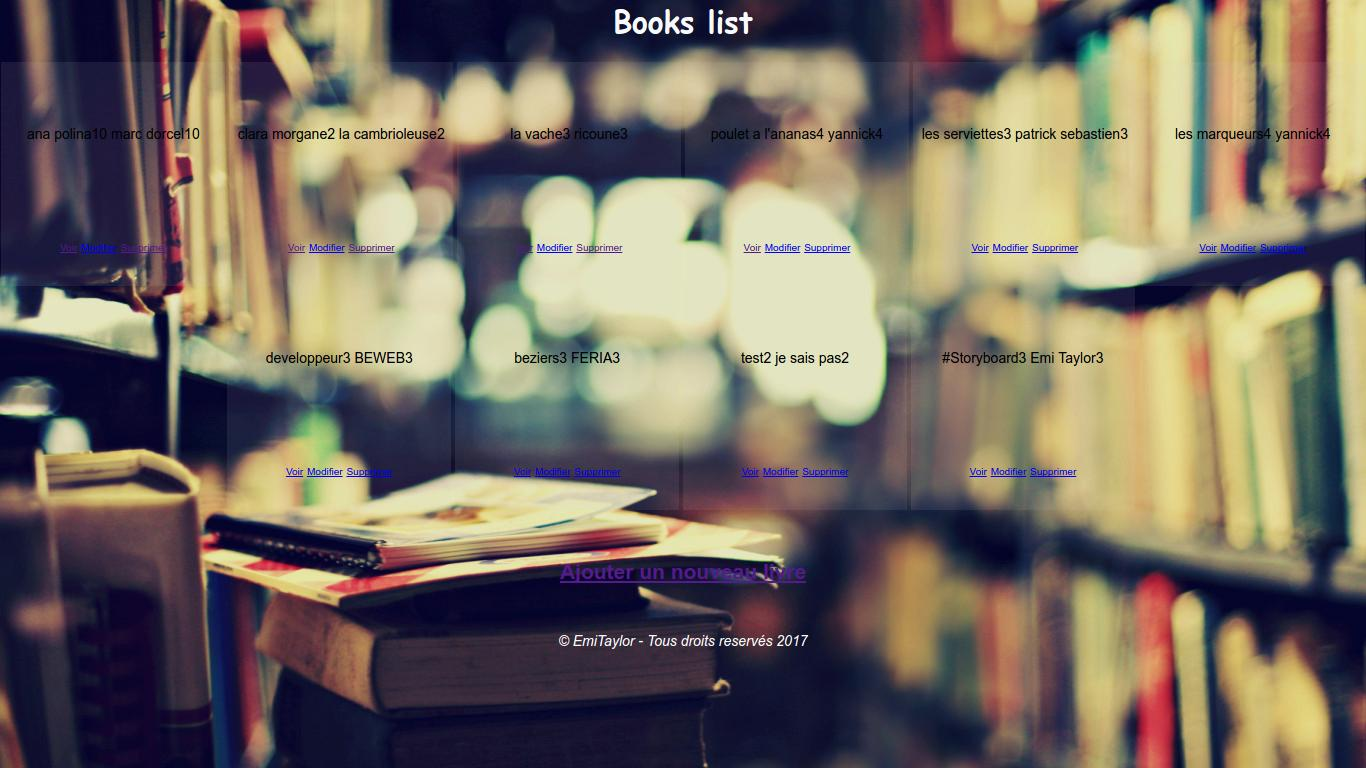
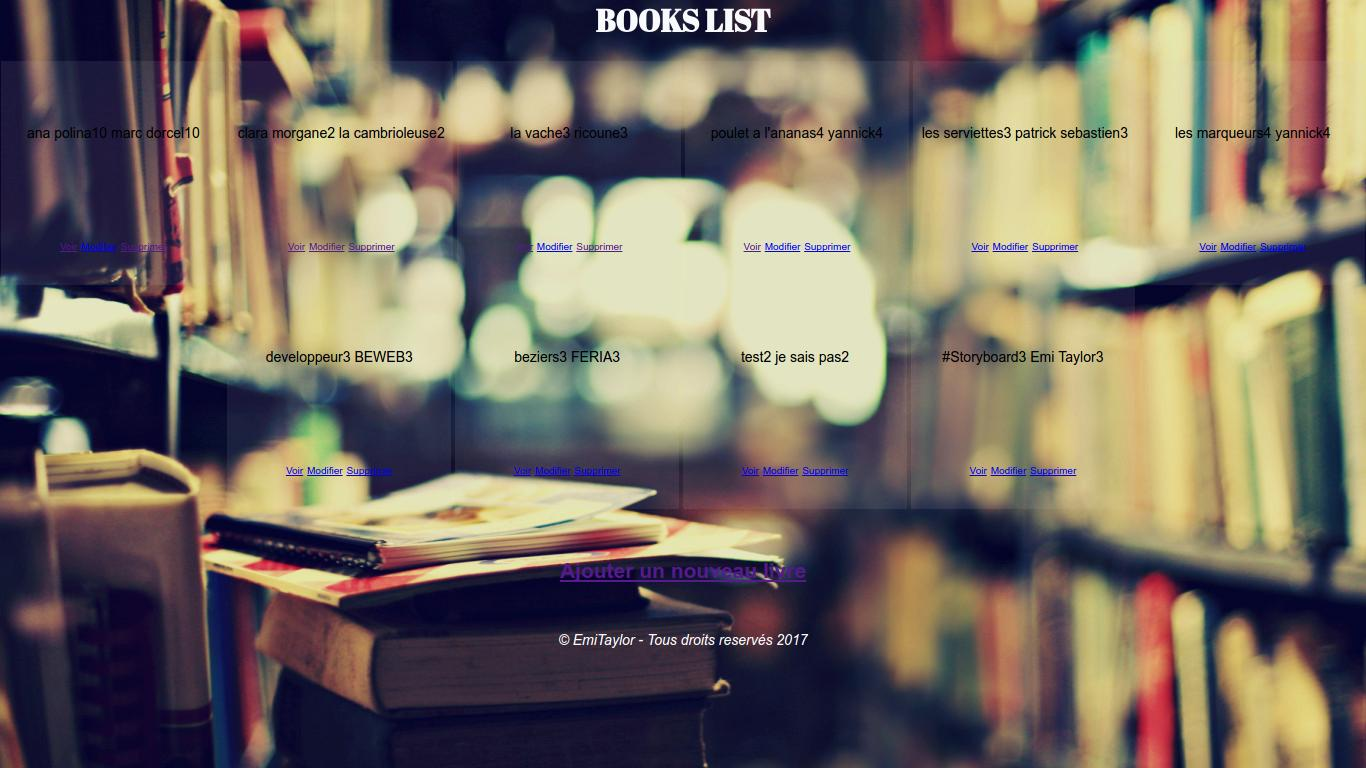
backend

diff --git a/css/master.css b/css/master.css
@@ -18,7 +18,9 @@ html, body{
 }
 h1{
     text-align: center;
-    font-family: 'Bad Script', cursive;
+    font-family: 'Inconsolata', monospace;
+    font-family: 'Fjalla One', sans-serif;
+    font-family: 'Abril Fatface', cursive;
     font-size: 30px;
 }
 .container {

diff --git a/application/views/templates/header.php b/application/views/templates/header.php
@@ -1,10 +1,11 @@
 <html>
     <head>
         <title>BLACKBOOKS</title>
+        <link href="https://fonts.googleapis.com/css?family=Abril+Fatface|Fjalla+One|Inconsolata" rel="stylesheet">
         <link rel="stylesheet" type="text/css" href="/css/master.css">
     </head>
     <body>
         <div id='page'>
             <h1><?php echo $title; ?></h1>
-            
+
             <div class="container">

diff --git a/application/controllers/Blackbooks.php b/application/controllers/Blackbooks.php
@@ -11,7 +11,7 @@ class Blackbooks extends CI_Controller{
     }
     public function index(){
         $data['books'] = $this->Blackbooks_Model->get_books();
-        $data['title'] = 'Books list';
+        $data['title'] = 'BOOKS LIST';
 
         $this->load->view('templates/header', $data);
         $this->load->view('blackbooks/index', $data);
